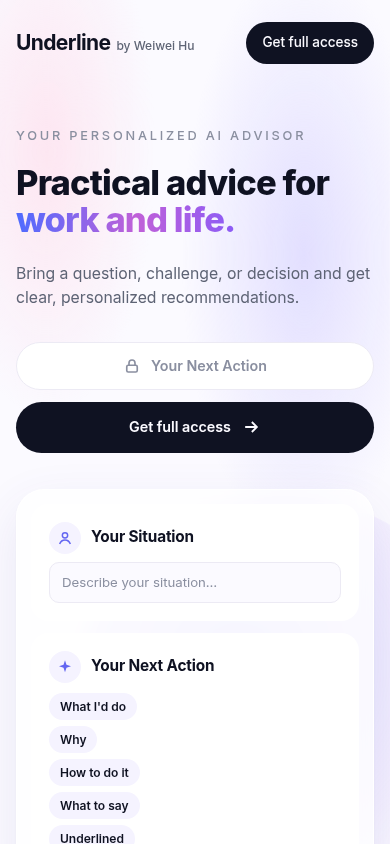
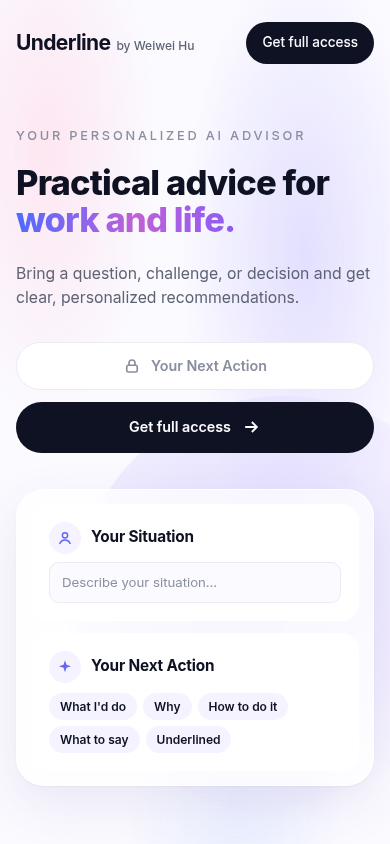
Compact preview labels on phones

Changed region(s): [[0.1538, 0.8626, 0.3385, 1.0], [0.4615, 0.9242, 0.8308, 0.9858], [0.4, 0.8318, 0.7077, 0.8934]]

diff --git a/index.html b/index.html
@@ -224,7 +224,7 @@ html{overflow-x:hidden}
 :root[data-theme="dark"] footer a{background:var(--tint);color:var(--ink)}
 :root[data-theme="dark"] .closing{background:linear-gradient(135deg,#2A1D33,#1E2142)}
 :root[data-theme="dark"] .src{background:#26264A;color:#B9BCFF}
-@media (max-width:620px){.preview{grid-template-columns:minmax(0,1fr)!important}.chat{width:100%}.ins span{width:100%}}
+@media (max-width:620px){.preview{grid-template-columns:minmax(0,1fr)!important}.chat{width:100%}.outs{flex-direction:row!important;flex-wrap:wrap!important}.ins span{width:100%}}
 </style>
 
 </head>
